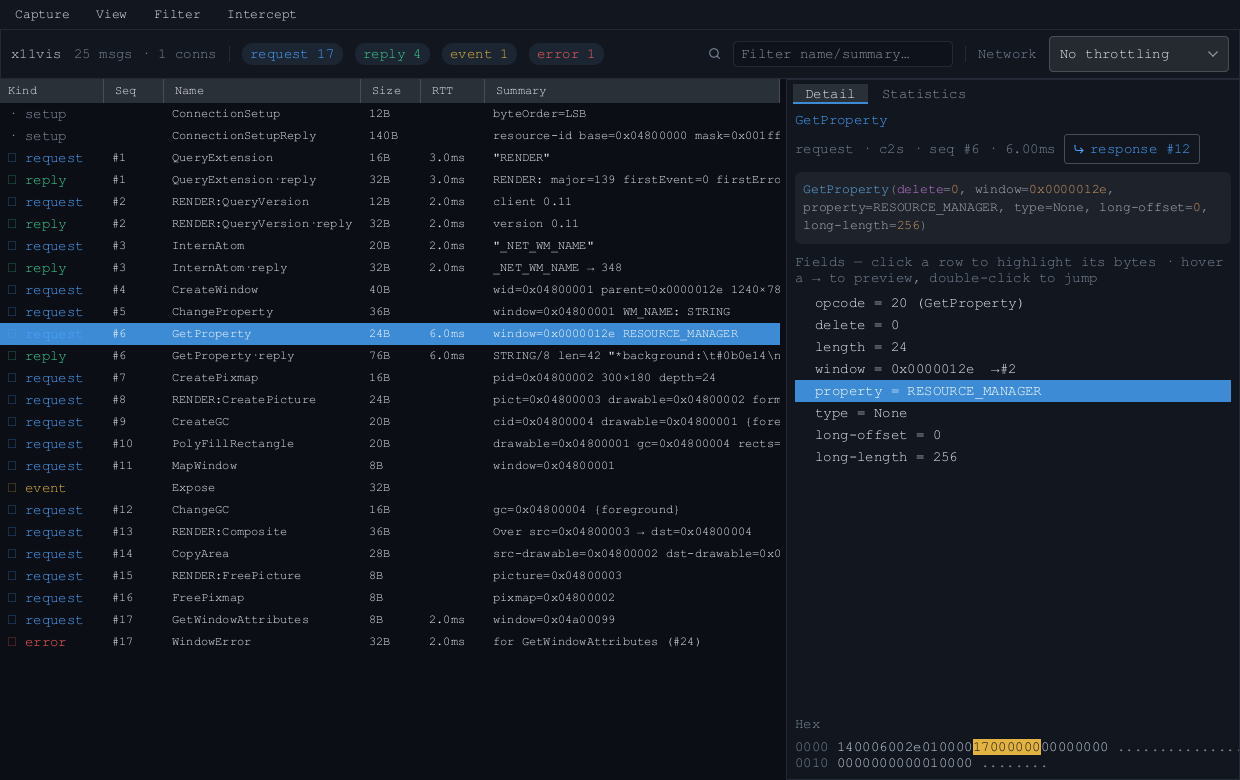
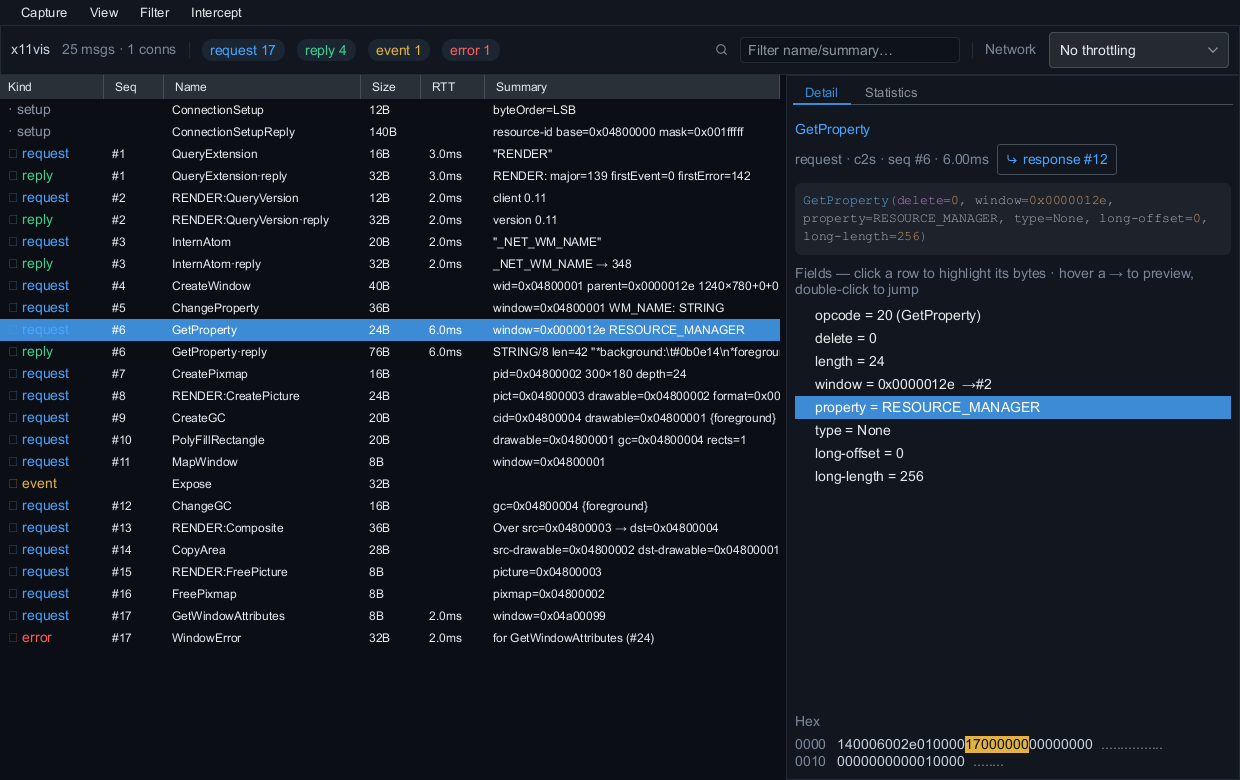
bump deps

diff --git a/src/ui/App.tsx b/src/ui/App.tsx
@@ -10,7 +10,8 @@
  */
 
 import { useCallback, useEffect, useMemo, useRef, useState, useSyncExternalStore } from 'react';
-import { MenuBar, SplitPane, Select, Tabs, Tooltip, type MenuItem } from 'react-x11';
+import { MenuBar, SplitPane, Select, Tooltip, type MenuItem } from 'react-x11';
+import { Tabs, TabsList, TabsTrigger, TabsContent } from '@react-x11/components/tabs';
 import { Table } from '@react-x11/components/table';
 import { Tree } from '@react-x11/components/tree';
 import { Code } from '@react-x11/components/code';
@@ -74,7 +75,6 @@ export interface AppProps {
 }
 
 export function App({ store, network, onQuit, onSave, interceptor }: AppProps) {
-  const [rightTab, setRightTab] = useState<'detail' | 'stats'>('detail');
   useSyncExternalStore(store.subscribe, store.getSnapshot);
   const [selectedId, setSelectedId] = useState<number | null>(null);
   const [activeSpan, setActiveSpan] = useState<Span | null>(null);
@@ -404,21 +404,26 @@ export function App({ store, network, onQuit, onSave, interceptor }: AppProps) {
           </SplitPane>
         ) : table}
         <box style={{ flexDirection: 'column', flexGrow: 1, backgroundColor: C.panel, borderColor: C.border, borderWidth: 1 }}>
-          <box style={{ paddingLeft: 6, paddingTop: 4, paddingRight: 6 }}>
-            <Tabs
-              items={[{ id: 'detail', label: 'Detail' }, { id: 'stats', label: 'Statistics' }]}
-              value={rightTab}
-              onChange={(id: string) => setRightTab(id as 'detail' | 'stats')}
-            />
-          </box>
-          {rightTab === 'detail' ? (
-            <Detail message={selected} activeSpan={activeSpan} onPickSpan={setActiveSpan} onJump={jumpTo}
-              getMessage={(id) => store.getMessage(id)} onPickField={setPickedField}
-              onFindUsages={findUsagesOf}
-              lints={selected ? lintReport.byMessage.get(selected.id) : undefined} />
-          ) : (
-            <StatsPanel messages={all} onJump={jumpTo} lints={lintReport} onFindUsages={(x) => setXidFilter(x)} />
-          )}
+          {/* lazyMount + unmountOnExit keep the old behaviour of building only
+              the visible panel — StatsPanel walks every message, so it should
+              not be kept live behind the Detail tab. */}
+          <Tabs defaultValue="detail" size="sm" ground={C.panel} lazyMount unmountOnExit>
+            <box style={{ paddingLeft: 6, paddingTop: 4, paddingRight: 6 }}>
+              <TabsList>
+                <TabsTrigger value="detail">Detail</TabsTrigger>
+                <TabsTrigger value="stats">Statistics</TabsTrigger>
+              </TabsList>
+            </box>
+            <TabsContent value="detail">
+              <Detail message={selected} activeSpan={activeSpan} onPickSpan={setActiveSpan} onJump={jumpTo}
+                getMessage={(id) => store.getMessage(id)} onPickField={setPickedField}
+                onFindUsages={findUsagesOf}
+                lints={selected ? lintReport.byMessage.get(selected.id) : undefined} />
+            </TabsContent>
+            <TabsContent value="stats">
+              <StatsPanel messages={all} onJump={jumpTo} lints={lintReport} onFindUsages={(x) => setXidFilter(x)} />
+            </TabsContent>
+          </Tabs>
         </box>
       </SplitPane>
     </window>

diff --git a/src/ui/BreakOnDialog.tsx b/src/ui/BreakOnDialog.tsx
@@ -15,7 +15,8 @@
  */
 
 import { useMemo, useState } from 'react';
-import { Dialog, Select, Tabs } from 'react-x11';
+import { Dialog, Select } from 'react-x11';
+import { Tabs, TabsList, TabsTrigger, TabsContent } from '@react-x11/components/tabs';
 import { Tree } from '@react-x11/components/tree';
 import { CodeEditor } from '@react-x11/components/code-editor';
 import { javascript } from '@react-x11/components/code-language';
@@ -81,13 +82,10 @@ export function BreakOnDialog({ open, atoms, onClose, onCreate }: BreakOnDialogP
     setPredicates((p) => p.map((x, j) => (j === i ? { ...x, ...patch } : x)));
   const delPredicate = (i: number) => setPredicates((p) => p.filter((_, j) => j !== i));
 
-  // The panels are built here and handed to `Tabs` as item content. Rendering
-  // them *below* a Tabs strip instead left the component's own (empty) panel
-  // holding the space, which is what pushed the editor down the dialog.
   const conditionsPanel = entry ? (
     <box style={{
       flexDirection: 'column', justifyContent: 'flex-start', alignItems: 'stretch',
-      gap: 5, flexGrow: 1, minHeight: 0, paddingTop: 6,
+      gap: 5, flexGrow: 1, minHeight: 0,
     }}>
       {predicates.length === 0 && (
         <text style={{ color: C.dim }}>
@@ -114,7 +112,7 @@ export function BreakOnDialog({ open, atoms, onClose, onCreate }: BreakOnDialogP
   ) : null;
 
   const scriptPanel = (
-    <box style={{ flexDirection: 'column', gap: 4, flexGrow: 1, minHeight: 0, paddingTop: 6 }}>
+    <box style={{ flexDirection: 'column', gap: 4, flexGrow: 1, minHeight: 0 }}>
       <box style={{
         flexGrow: 1, minHeight: 0, borderColor: C.border, borderWidth: 1,
         borderRadius: T.radius, backgroundColor: C.panelAlt,
@@ -203,14 +201,19 @@ export function BreakOnDialog({ open, atoms, onClose, onCreate }: BreakOnDialogP
               </box>
 
               <Tabs
-                items={[
-                  { id: 'conditions', label: 'Conditions', content: conditionsPanel },
-                  { id: 'script', label: 'Script', content: scriptPanel },
-                ]}
                 value={tab}
-                onChange={setTab}
+                onValueChange={(change) => setTab(change.value)}
+                size="sm"
+                ground={C.bg}
                 style={{ flexGrow: 1, minHeight: 0 }}
-              />
+              >
+                <TabsList>
+                  <TabsTrigger value="conditions">Conditions</TabsTrigger>
+                  <TabsTrigger value="script">Script</TabsTrigger>
+                </TabsList>
+                <TabsContent value="conditions">{conditionsPanel}</TabsContent>
+                <TabsContent value="script">{scriptPanel}</TabsContent>
+              </Tabs>
             </>
           )}
         </box>

diff --git a/src/ui/controls.tsx b/src/ui/controls.tsx
@@ -23,7 +23,11 @@ import { Icon } from './icons.js';
 /** Colour and spacing tokens. */
 export const T = {
   bg: '#0b0e14',
+  // bg: '$surface',
+  
   panel: '#11161f',
+  // panel: '$surface',
+
   panelAlt: '#0e131b',
   border: '#232a36',
   borderStrong: '#313d4f',
